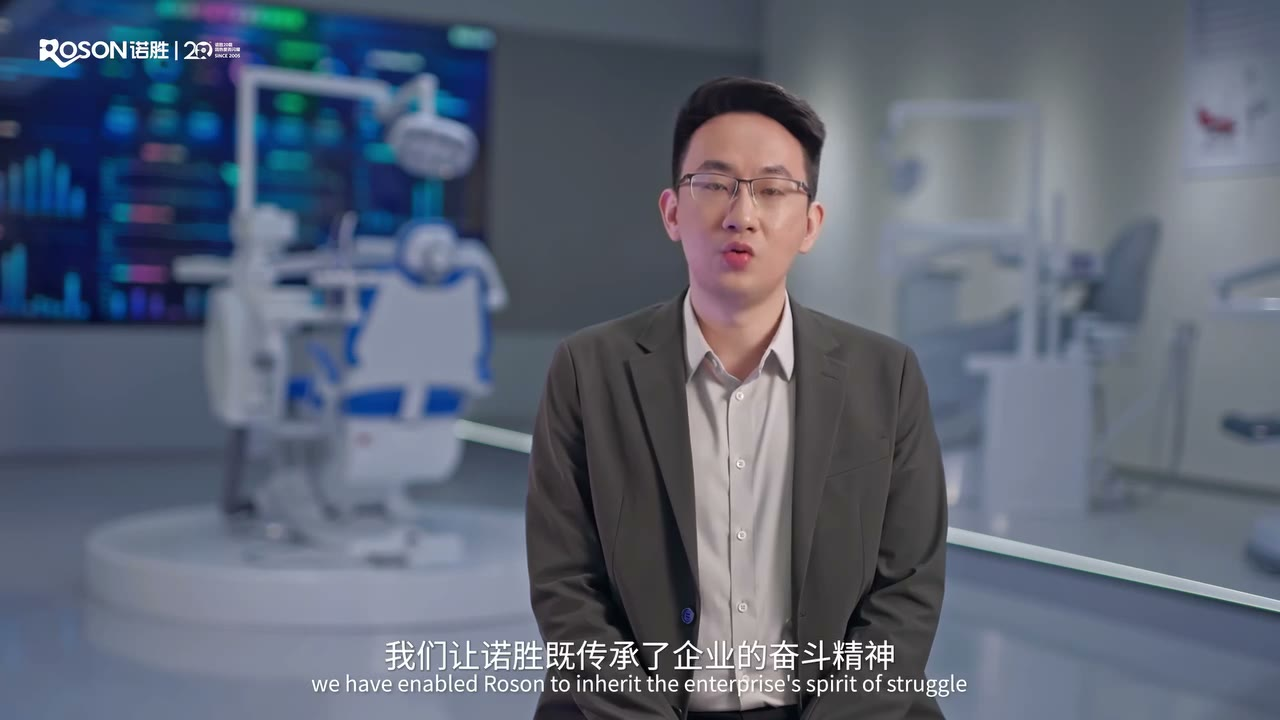
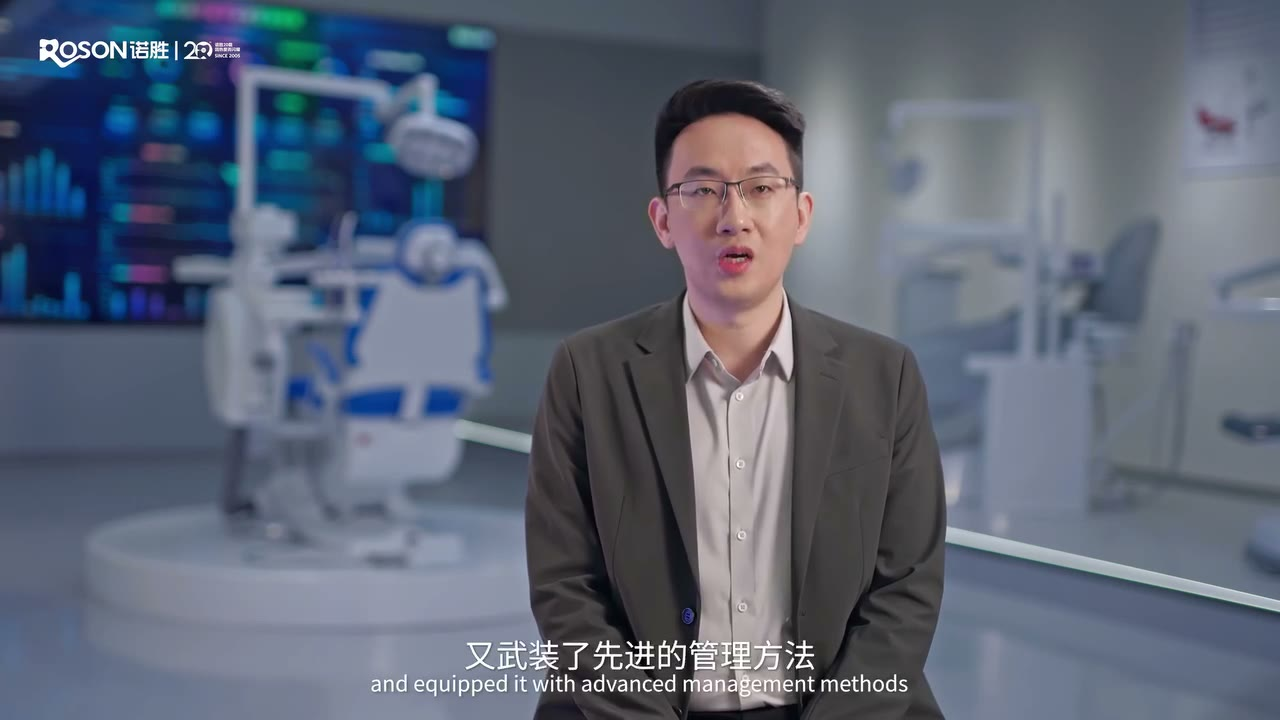
feat(news): George profile frames reconciled to Jarich's five picks
Desk shot with The Founder's Mentality subtitle replaces the silent
bookshelf; wall-point re-timed to 'attracted more cross-industry
talents'; interview close re-timed to 'equipped it with advanced
management methods'; the team meeting ('summarize experience and
lessons') replaces the assembly b-roll. Redundant frames removed;
the goals-wall pick already matched the live frame.

diff --git a/src/data/news.js b/src/data/news.js
@@ -30,7 +30,7 @@ Then something changed. **"Walking the workshops with my father, listening to hi
 
 Spend a minute in George's office in the film and you notice the bookshelf: rows of worn volumes on management, incentive systems, organizational design. One book he quotes by name — ***The Founder's Mentality***: **"The founder's mentality isn't only what a young company needs to succeed. It matters just as much to a mature, steadily-running company."**
 
-![The bookshelf in George Chen's office](/images/news/george-chen-2026/bookshelf.jpg)
+![At his desk with the book that shaped his leadership — "The Founder's Mentality"](/images/news/george-chen-2026/desk-founders.jpg)
 
 That line defined his challenge. **"When I joined in 2020, I could feel the foundation and depth of a company that had been running for fifteen years — and I could also see its settled side, the lack of breakthrough. How to let this mature company honor its inheritance while re-injecting the entrepreneurial spirit — that was the greatest challenge I faced."**
 
@@ -38,7 +38,7 @@ That line defined his challenge. **"When I joined in 2020, I could feel the foun
 
 His answer, over five years: reset the goals and vision, attract talent from beyond the dental industry, and set standards for how the work gets done.
 
-![Walking the workshop wall with his team — "we have reset our goals and vision"](/images/news/george-chen-2026/reset-goals.jpg)
+![Walking the workshop wall with his team — "we attracted more cross-industry talents"](/images/news/george-chen-2026/reset-goals.jpg)
 
 ![George Chen making his point](/images/news/george-chen-2026/gesture.jpg)
 
@@ -68,7 +68,7 @@ Ask George where all this is going and he doesn't talk about rankings. He talks 
 
 **"These five years, we've let ROSON inherit its striving spirit while arming it with modern management methods,"** he says. **"We are ready for the sprint into the next stage."** And true to habit, that readiness looks like listening: this year alone he has sat with partners in Russia, Egypt, Europe — and with us in Manila — asking what dentists need, and carrying the answers back into the next generation of chairs.
 
-![George Chen](/images/news/george-chen-2026/closing.jpg)
+![George Chen — "and equipped it with advanced management methods"](/images/news/george-chen-2026/closing.jpg)
 
 ## Watch: His Story, In His Own Words
 
@@ -76,7 +76,7 @@ The segment below is from ROSON's twentieth-anniversary film — George's chapte
 
 ![George Chen — his story from ROSON's anniversary film](/videos/george-chen-story.mp4)
 
-![The culture he built — inside the ROSON production team](/images/news/george-chen-2026/assembly.jpg)
+![The culture he built — the product team summarizing experience and lessons after a setback](/images/news/george-chen-2026/team-lessons.jpg)
 
 ## Why This Matters to Your Clinic
 
